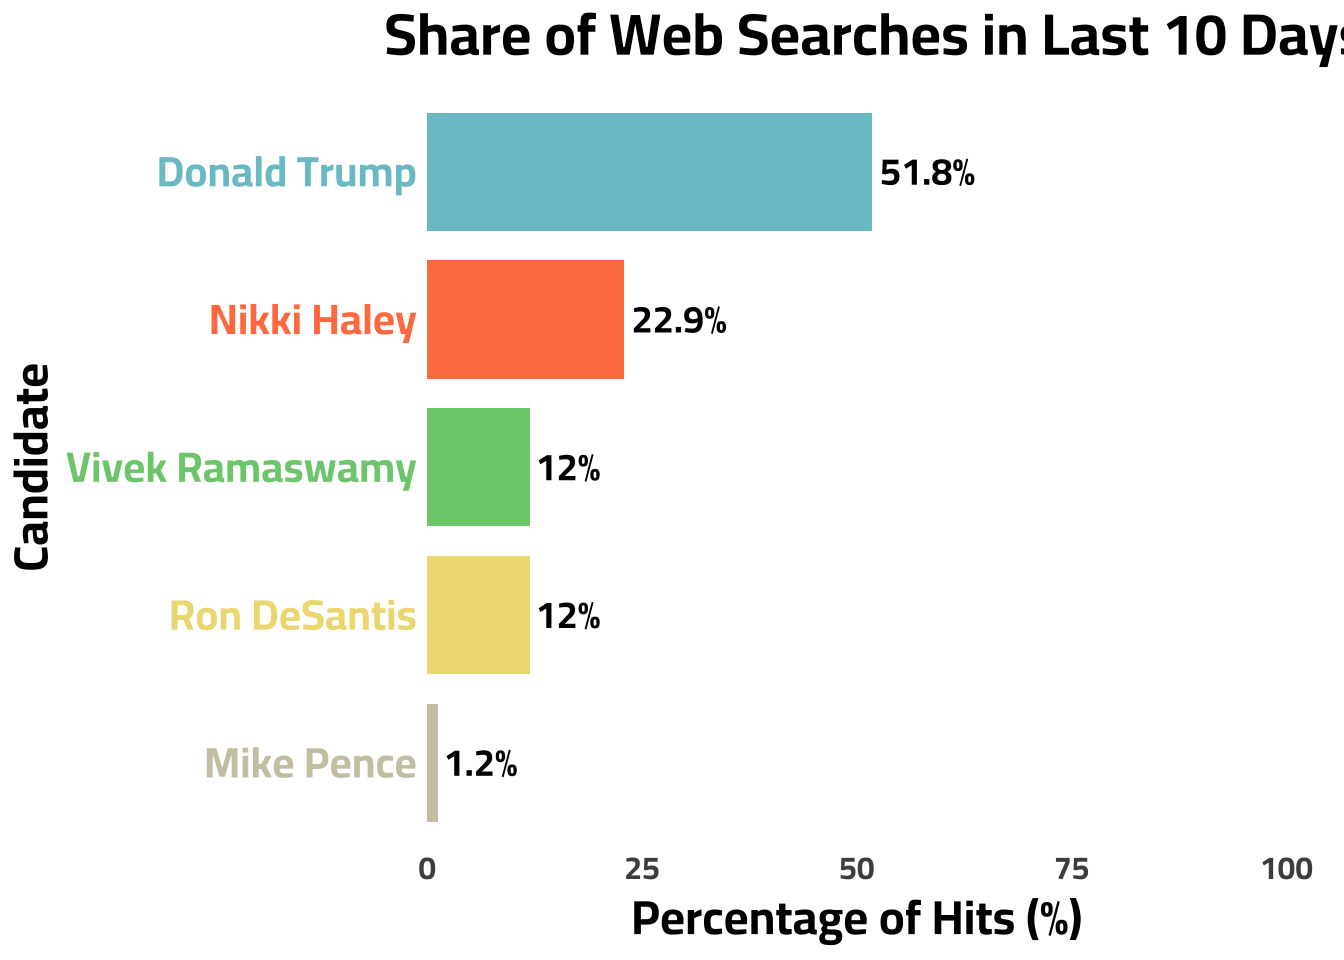
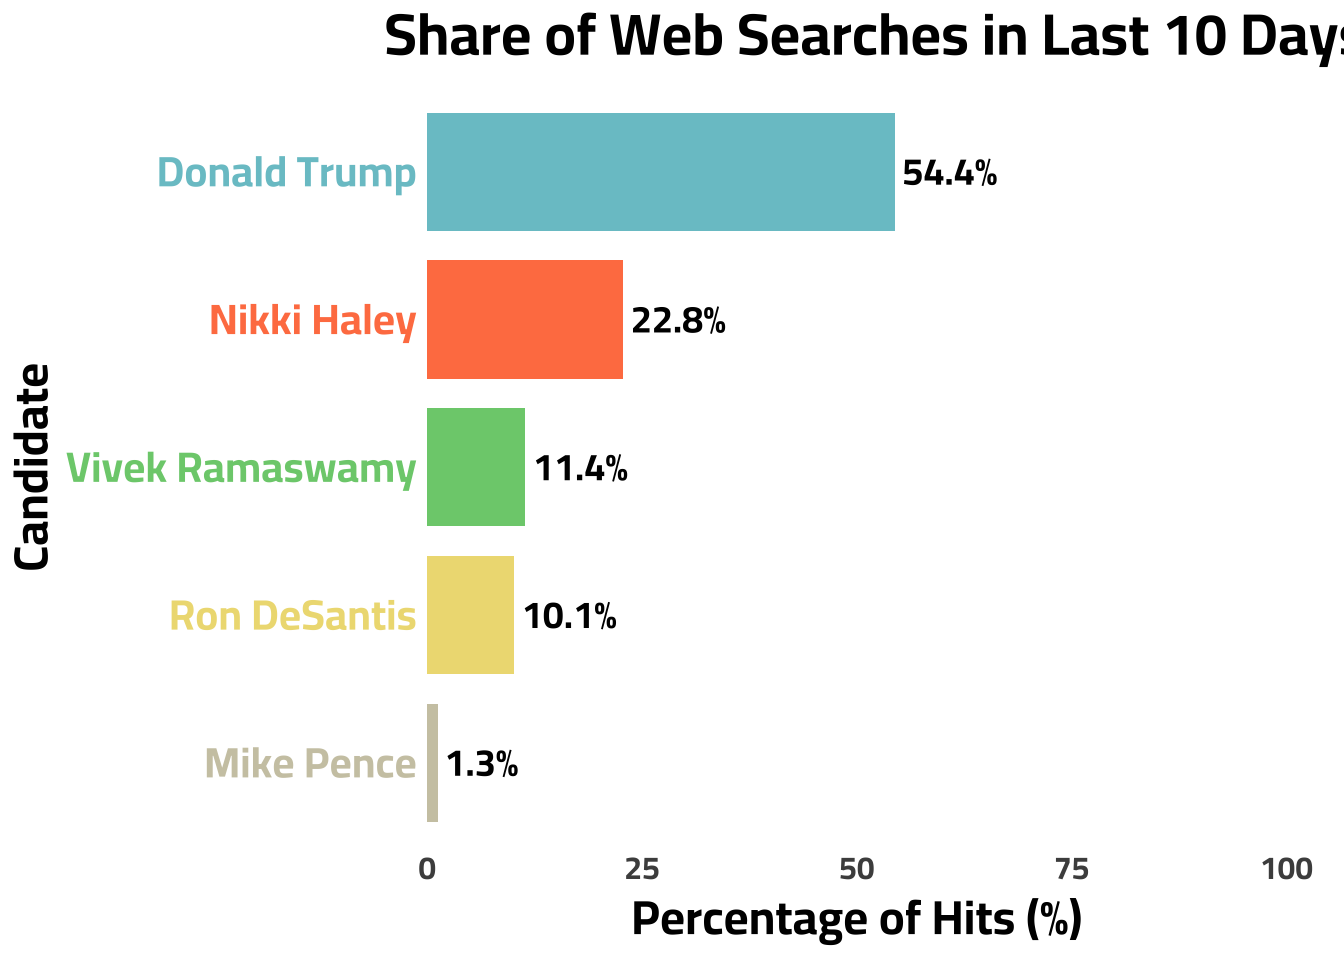
StreamGraph Update

diff --git a/_site/blog.html b/_site/blog.html
@@ -178,7 +178,7 @@ ul.task-list li input[type="checkbox"] {
 
 <div class="quarto-listing quarto-listing-container-default" id="listing-listing">
 <div class="list quarto-listing-default">
-<div class="quarto-post image-right" data-index="0" data-categories="Life Hacks,Commentary" data-listing-date-sort="1697760000000" data-listing-file-modified-sort="1703852440537" data-listing-date-modified-sort="NaN" data-listing-reading-time-sort="8">
+<div class="quarto-post image-right" data-index="0" data-categories="Life Hacks,Commentary" data-listing-date-sort="1697760000000" data-listing-file-modified-sort="1704025304659" data-listing-date-modified-sort="NaN" data-listing-reading-time-sort="8">
 <div class="thumbnail">
 <p><a href="./posts/path_to_datascience/index.html"> <img src="./posts/path_to_datascience/tile.png" class="thumbnail-image"> </a></p>
 </div>
@@ -209,7 +209,7 @@ Oct 20, 2023
 </a>
 </div>
 </div>
-<div class="quarto-post image-right" data-index="1" data-categories="Google Trends,Data Journalism,Politics,CICD" data-listing-date-sort="1696377600000" data-listing-file-modified-sort="1703852440538" data-listing-date-modified-sort="NaN" data-listing-reading-time-sort="7">
+<div class="quarto-post image-right" data-index="1" data-categories="Google Trends,Data Journalism,Politics,CICD" data-listing-date-sort="1696377600000" data-listing-file-modified-sort="1704025304660" data-listing-date-modified-sort="NaN" data-listing-reading-time-sort="7">
 <div class="thumbnail">
 <p><a href="./posts/primary_stream/index.html"> <img src="././about_files/primary_1.png" class="thumbnail-image"> </a></p>
 </div>
@@ -246,7 +246,7 @@ Oct 4, 2023
 </a>
 </div>
 </div>
-<div class="quarto-post image-right" data-index="2" data-categories="CICD,Quarto" data-listing-date-sort="1694044800000" data-listing-file-modified-sort="1703852440533" data-listing-date-modified-sort="NaN" data-listing-reading-time-sort="8">
+<div class="quarto-post image-right" data-index="2" data-categories="CICD,Quarto" data-listing-date-sort="1694044800000" data-listing-file-modified-sort="1704025304656" data-listing-date-modified-sort="NaN" data-listing-reading-time-sort="8">
 <div class="thumbnail">
 <p><a href="./posts/cicd_primary/index.html"> <img src="https://external-content.duckduckgo.com/iu/?u=https%3A%2F%2Fwww.adictosaltrabajo.com%2Fwp-content%2Fuploads%2F2020%2F10%2Fandroid-github-actions-setup-image-35b6a79fea4a7289acb6796cd4ad05b4.png&amp;f=1&amp;nofb=1&amp;ipt=b02a4ecfb6e2d666f35916b643a6f3e9907e880252d1e19d3eda47521252e9c3&amp;ipo=images" class="thumbnail-image"> </a></p>
 </div>
@@ -277,7 +277,7 @@ Sep 7, 2023
 </a>
 </div>
 </div>
-<div class="quarto-post image-right" data-index="3" data-categories="Life Hacks,Quarto" data-listing-date-sort="1688601600000" data-listing-file-modified-sort="1703852440539" data-listing-date-modified-sort="NaN" data-listing-reading-time-sort="3">
+<div class="quarto-post image-right" data-index="3" data-categories="Life Hacks,Quarto" data-listing-date-sort="1688601600000" data-listing-file-modified-sort="1704025304661" data-listing-date-modified-sort="NaN" data-listing-reading-time-sort="3">
 <div class="thumbnail">
 <p><a href="./posts/simple_analytics/index.html"> <img src="./about_files/Simple_Analytics.png" class="thumbnail-image"> </a></p>
 </div>
@@ -308,7 +308,7 @@ Jul 6, 2023
 </a>
 </div>
 </div>
-<div class="quarto-post image-right" data-index="4" data-categories="Data Journalism,Google Trends,Politics" data-listing-date-sort="1687824000000" data-listing-file-modified-sort="1703852440533" data-listing-date-modified-sort="NaN" data-listing-reading-time-sort="7">
+<div class="quarto-post image-right" data-index="4" data-categories="Data Journalism,Google Trends,Politics" data-listing-date-sort="1687824000000" data-listing-file-modified-sort="1704025304656" data-listing-date-modified-sort="NaN" data-listing-reading-time-sort="7">
 <div class="thumbnail">
 <p><a href="./posts/google_trends/index.html"> <img src="./about_files/byteman.png" class="thumbnail-image"> </a></p>
 </div>
@@ -342,7 +342,7 @@ Jun 27, 2023
 </a>
 </div>
 </div>
-<div class="quarto-post image-right" data-index="5" data-categories="Data Journalism,LDS,R" data-listing-date-sort="1675728000000" data-listing-file-modified-sort="1703852440534" data-listing-date-modified-sort="NaN" data-listing-reading-time-sort="4">
+<div class="quarto-post image-right" data-index="5" data-categories="Data Journalism,LDS,R" data-listing-date-sort="1675728000000" data-listing-file-modified-sort="1704025304657" data-listing-date-modified-sort="NaN" data-listing-reading-time-sort="4">
 <div class="thumbnail">
 <p><a href="./posts/income_myth/index.html"> <img src="./about_files/LDS_myth_0.png" class="thumbnail-image"> </a></p>
 </div>
@@ -376,7 +376,7 @@ Feb 7, 2023
 </a>
 </div>
 </div>
-<div class="quarto-post image-right" data-index="6" data-categories="Life Hacks,Quarto" data-listing-date-sort="1662076800000" data-listing-file-modified-sort="1703852440539" data-listing-date-modified-sort="NaN" data-listing-reading-time-sort="4">
+<div class="quarto-post image-right" data-index="6" data-categories="Life Hacks,Quarto" data-listing-date-sort="1662076800000" data-listing-file-modified-sort="1704025304660" data-listing-date-modified-sort="NaN" data-listing-reading-time-sort="4">
 <div class="thumbnail">
 <p><a href="./posts/resume/index.html"> <img src="./about_files/resume_2.png" class="thumbnail-image"> </a></p>
 </div>
@@ -407,7 +407,7 @@ Sep 2, 2022
 </a>
 </div>
 </div>
-<div class="quarto-post image-right" data-index="7" data-categories="Survey Research,Data Journalism,LDS" data-listing-date-sort="1646265600000" data-listing-file-modified-sort="1703852440531" data-listing-date-modified-sort="NaN" data-listing-reading-time-sort="7">
+<div class="quarto-post image-right" data-index="7" data-categories="Survey Research,Data Journalism,LDS" data-listing-date-sort="1646265600000" data-listing-file-modified-sort="1704025304655" data-listing-date-modified-sort="NaN" data-listing-reading-time-sort="7">
 <div class="thumbnail">
 <p><a href="./posts/7_facts/index.html"> <img src="https://www.ldstemple.pics/wp-content/uploads/washington-dc-temple-final-sunset-600x600.jpg" class="thumbnail-image"> </a></p>
 </div>
@@ -441,7 +441,7 @@ Mar 3, 2022
 </a>
 </div>
 </div>
-<div class="quarto-post image-right" data-index="8" data-categories="Data Journalism,R" data-listing-date-sort="1618012800000" data-listing-file-modified-sort="1703852440533" data-listing-date-modified-sort="NaN" data-listing-reading-time-sort="4">
+<div class="quarto-post image-right" data-index="8" data-categories="Data Journalism,R" data-listing-date-sort="1618012800000" data-listing-file-modified-sort="1704025304656" data-listing-date-modified-sort="NaN" data-listing-reading-time-sort="4">
 <div class="thumbnail">
 <p><a href="./posts/facebook_data/index.html"> <img src="./about_files/fb_icon" class="thumbnail-image"> </a></p>
 </div>
@@ -472,7 +472,7 @@ Apr 10, 2021
 </a>
 </div>
 </div>
-<div class="quarto-post image-right" data-index="9" data-categories="Data Journalism,R,Survey Research,LDS,Politics" data-listing-date-sort="1607472000000" data-listing-file-modified-sort="1703852440534" data-listing-date-modified-sort="NaN" data-listing-reading-time-sort="8">
+<div class="quarto-post image-right" data-index="9" data-categories="Data Journalism,R,Survey Research,LDS,Politics" data-listing-date-sort="1607472000000" data-listing-file-modified-sort="1704025304657" data-listing-date-modified-sort="NaN" data-listing-reading-time-sort="8">
 <div class="thumbnail">
 <p><a href="./posts/lds_gop/index.html"> <img src="./about_files/iu-3.jpeg" class="thumbnail-image"> </a></p>
 </div>
@@ -512,7 +512,7 @@ Dec 9, 2020
 </a>
 </div>
 </div>
-<div class="quarto-post image-right" data-index="10" data-categories="Data Journalism,R" data-listing-date-sort="1594339200000" data-listing-file-modified-sort="1703852440532" data-listing-date-modified-sort="NaN" data-listing-reading-time-sort="7">
+<div class="quarto-post image-right" data-index="10" data-categories="Data Journalism,R" data-listing-date-sort="1594339200000" data-listing-file-modified-sort="1704025304655" data-listing-date-modified-sort="NaN" data-listing-reading-time-sort="7">
 <div class="thumbnail">
 <p><a href="./posts/cars/index.html"> <img src="https://media.giphy.com/media/rUE9CTmsYMbbOz2MqD/giphy.gif" class="thumbnail-image"> </a></p>
 </div>
@@ -543,7 +543,7 @@ Jul 10, 2020
 </a>
 </div>
 </div>
-<div class="quarto-post image-right" data-index="11" data-categories="Data Journalism,R,Shiny" data-listing-date-sort="1591660800000" data-listing-file-modified-sort="1703852440535" data-listing-date-modified-sort="NaN" data-listing-reading-time-sort="7">
+<div class="quarto-post image-right" data-index="11" data-categories="Data Journalism,R,Shiny" data-listing-date-sort="1591660800000" data-listing-file-modified-sort="1704025304657" data-listing-date-modified-sort="NaN" data-listing-reading-time-sort="7">
 <div class="thumbnail">
 <p><a href="./posts/mobility/index.html"> <img src="./about_files/iu-2.jpeg" class="thumbnail-image"> </a></p>
 </div>

diff --git a/_site/projects.html b/_site/projects.html
@@ -178,7 +178,7 @@ ul.task-list li input[type="checkbox"] {
 
 <div class="quarto-listing quarto-listing-container-grid" id="listing-listing">
 <div class="list grid quarto-listing-cols-3">
-<div class="g-col-1" data-index="0" data-categories="Capstone,Python,Stats" data-listing-date-sort="1682899200000" data-listing-file-modified-sort="1703852440550" data-listing-date-modified-sort="NaN" data-listing-reading-time-sort="4">
+<div class="g-col-1" data-index="0" data-categories="Capstone,Python,Stats" data-listing-date-sort="1682899200000" data-listing-file-modified-sort="1704025304670" data-listing-date-modified-sort="NaN" data-listing-reading-time-sort="4">
 <a href="./projects/internet_archive/index.html" class="quarto-grid-link">
 <div class="quarto-grid-item card h-100 card-left">
 <p class="card-img-top">
@@ -211,7 +211,7 @@ May 1, 2023
 </div>
 </a>
 </div>
-<div class="g-col-1" data-index="1" data-categories="Python,Stats,Dataviz" data-listing-date-sort="1660867200000" data-listing-file-modified-sort="1703852440547" data-listing-date-modified-sort="NaN" data-listing-reading-time-sort="10">
+<div class="g-col-1" data-index="1" data-categories="Python,Stats,Dataviz" data-listing-date-sort="1660867200000" data-listing-file-modified-sort="1704025304668" data-listing-date-modified-sort="NaN" data-listing-reading-time-sort="10">
 <a href="./projects/bayesian_county/index.html" class="quarto-grid-link">
 <div class="quarto-grid-item card h-100 card-left">
 <p class="card-img-top">
@@ -244,7 +244,7 @@ Aug 19, 2022
 </div>
 </a>
 </div>
-<div class="g-col-1" data-index="2" data-categories="CI/CD,R,Dataviz" data-listing-date-sort="1636329600000" data-listing-file-modified-sort="1703852440548" data-listing-date-modified-sort="NaN" data-listing-reading-time-sort="3">
+<div class="g-col-1" data-index="2" data-categories="CI/CD,R,Dataviz" data-listing-date-sort="1636329600000" data-listing-file-modified-sort="1704025304668" data-listing-date-modified-sort="NaN" data-listing-reading-time-sort="3">
 <a href="./projects/covid_update/index.html" class="quarto-grid-link">
 <div class="quarto-grid-item card h-100 card-left">
 <p class="card-img-top">
@@ -277,7 +277,7 @@ Nov 8, 2021
 </div>
 </a>
 </div>
-<div class="g-col-1" data-index="3" data-categories="Dataviz,Stats,R" data-listing-date-sort="1600387200000" data-listing-file-modified-sort="1703852440548" data-listing-date-modified-sort="NaN" data-listing-reading-time-sort="2">
+<div class="g-col-1" data-index="3" data-categories="Dataviz,Stats,R" data-listing-date-sort="1600387200000" data-listing-file-modified-sort="1704025304669" data-listing-date-modified-sort="NaN" data-listing-reading-time-sort="2">
 <a href="./projects/election_model/index.html" class="quarto-grid-link">
 <div class="quarto-grid-item card h-100 card-left">
 <p class="card-img-top">
@@ -310,7 +310,7 @@ Sep 18, 2020
 </div>
 </a>
 </div>
-<div class="g-col-1" data-index="4" data-categories="R,Shiny" data-listing-date-sort="1596153600000" data-listing-file-modified-sort="1703852440550" data-listing-date-modified-sort="NaN" data-listing-reading-time-sort="2">
+<div class="g-col-1" data-index="4" data-categories="R,Shiny" data-listing-date-sort="1596153600000" data-listing-file-modified-sort="1704025304671" data-listing-date-modified-sort="NaN" data-listing-reading-time-sort="2">
 <a href="./projects/peanuts/index.html" class="quarto-grid-link">
 <div class="quarto-grid-item card h-100 card-left">
 <p class="card-img-top">
@@ -340,7 +340,7 @@ Jul 31, 2020
 </div>
 </a>
 </div>
-<div class="g-col-1" data-index="5" data-categories="Capstone,R,Stats" data-listing-date-sort="1587772800000" data-listing-file-modified-sort="1703852440552" data-listing-date-modified-sort="NaN" data-listing-reading-time-sort="6">
+<div class="g-col-1" data-index="5" data-categories="Capstone,R,Stats" data-listing-date-sort="1587772800000" data-listing-file-modified-sort="1704025304673" data-listing-date-modified-sort="NaN" data-listing-reading-time-sort="6">
 <a href="./projects/star_wars_capstone/index.html" class="quarto-grid-link">
 <div class="quarto-grid-item card h-100 card-left">
 <p class="card-img-top">

diff --git a/_site/posts/primary_stream/index.html b/_site/posts/primary_stream/index.html
@@ -181,7 +181,7 @@ Note
 </div>
 </div>
 <div class="callout-body-container callout-body">
-<p>This graph is updated on a daily basis to provide continuous context to the GOP Primary Election. This graph was last updated: 12:20:46 on 29 Dec 2023</p>
+<p>This graph is updated on a daily basis to provide continuous context to the GOP Primary Election. This graph was last updated: 12:21:50 on 31 Dec 2023</p>
 </div>
 </div>
 <div class="cell">
@@ -234,7 +234,7 @@ Note
 </div>
 </div>
 <div class="callout-body-container callout-body">
-<p>This graph is updated on a daily basis to provide continuous context to the GOP Primary Election. This graph was last updated: 12:20:53 on 29 Dec 2023</p>
+<p>This graph is updated on a daily basis to provide continuous context to the GOP Primary Election. This graph was last updated: 12:21:55 on 31 Dec 2023</p>
 </div>
 </div>
 <p>This graph is provided to give a barometer reading of a candidates <em>recent</em> popularity/news coverage.</p>
